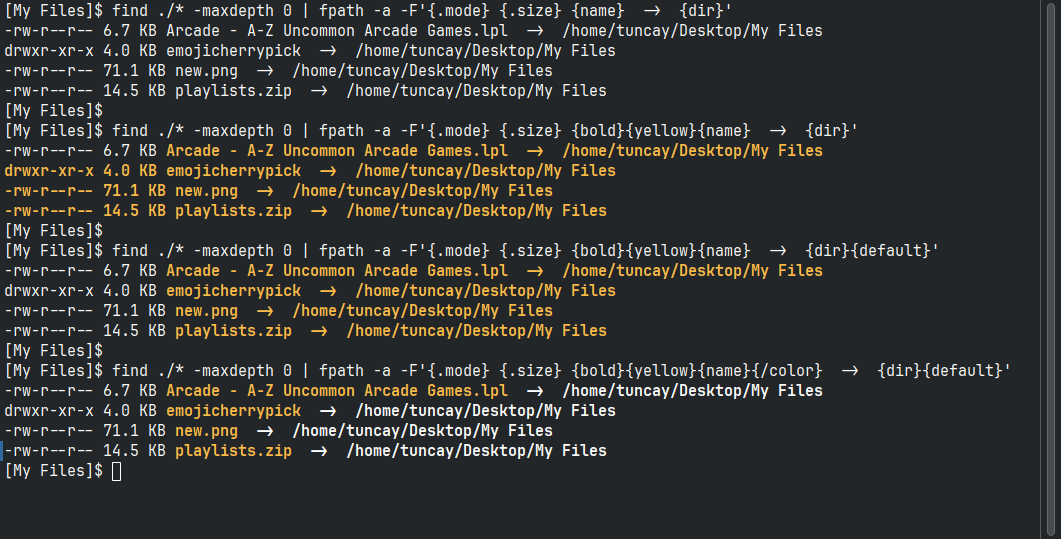
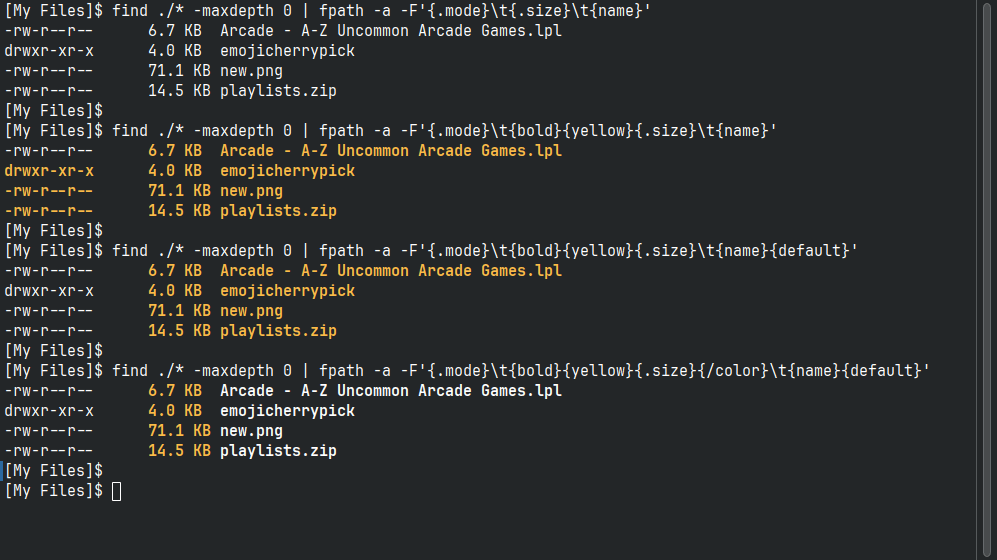
README fixed, simplefied and rephrased lot of examples

Changed region(s): [[0.0, 0.0, 0.995, 0.9796]]

diff --git a/README.md b/README.md
@@ -56,33 +56,28 @@ alias or functions and use the program directly.
 The usage is pretty simple:
 
 ```bash
-stdout | fpath [options] -- [path...]
+path... | fpath [options] -- [path...]
 ```
 
-By default it will read from (newline character delimited) stdout of another
-program and optionally from given arguments as file paths. And they are output
-back after some processing. By default quotes (single and double) enclosing a
-path are removed and the leading tilde is resolved into users home directory;
-just as god intended. Let's see how this works in a simple series of commands.
+By default stdin from a piped process is parsed as list of paths split by
+newline. Optionally paths can be given as arguments too. All input paths are
+output to stdout. Single and double quotes surrounding a path is automatically
+detected and removed. Leading tilde character is translated into the users home
+directory. With options all of these default processing can be changed.
 
-Use `-h` option to display available options.
+The stdin can be ignored with option `-z`. And `--` tells the script to stop
+processing options and accept anything that comes after the double dash as path
+input files rather than options.
 
-```bash
-fpath -h
-```
-
-Let's assume the output of `ls` from the home directory. (Usually it is advised
-against using `ls` output in pipes, but for demonstration purposes just let's
-ignore any good advice here.)
+Let's see how this works with a series of simple examples:
 
 ### Basics
 
-As you can see by default output is just their names without a path at all. And
-those with spaces in the name are enclosed by quotes:
+Output from `ls` will include quotes for paths with spaces:
 
 ```bash
 $ cd ~
-$ ls -1 ~/Videos
+$ ls -1 Videos
 Gaming
 'My Friends'
 'My Game Recording'
@@ -90,12 +85,12 @@ Gaming
 YouTube
 ```
 
-The default output by piping into `fpath` in this case would just remove those
-quotes for consistency:
+Pipe that into `fpath`, which removes those quotes automatically for
+consistency:
 
 ```bash
 $ cd ~
-$ ls -1 ~/Videos | fpath
+$ ls -1 Videos | fpath
 Gaming
 My Friends
 My Game Recording
@@ -103,11 +98,11 @@ My Tutorials
 YouTube
 ```
 
-However single quotes can be enforced for all paths with option `-q`:
+Enforce single quotes on all paths with `-q`:
 
 ```bash
 $ cd ~
-$ ls -1 ~/Videos | fpath -q
+$ ls -1 Videos | fpath -q
 'Gaming'
 'My Friends'
 'My Game Recording'
@@ -115,29 +110,27 @@ $ ls -1 ~/Videos | fpath -q
 'YouTube'
 ```
 
-Option `-a` can add the current working directory to all relative paths to turn
-them into an absolute path. This would result in something like
-`/home/tuncay/Gaming` like paths. We can use option `-t` to convert the home
-part back into a tilde, for visual clarity:
+Because we are not in the same directory as "~/Videos", using the name of a
+file or directory would not work. To build a correct path we can tell `fpath`
+to add a base path in front of each relative path:
 
 ```bash
 $ cd ~
-$ ls -1 ~/Videos | fpath -a -t
-~/Gaming
-~/My Friends
-~/My Game Recording
-~/My Tutorials
-~/YouTube
+$ ls -1 Videos | fpath -b Videos
+Videos/Gaming
+Videos/My Friends
+Videos/My Game Recording
+Videos/My Tutorials
+Videos/YouTube
 ```
 
-As said before, `ls` isn't actually the best tool for combining its output into
-other programs. The better tool for this job would be to use `find` or even any
-other tool dedicated for this kind of job. Here it produces entire paths with
-all its directory parts and without quotes, a much better place to be in.
+Add `-a` to turn every relative path into an absolute path, by adding the
+current working directory. This operation is safe, as we build a correct
+partial path in the previous example. Now we can expand it fully:
 
 ```bash
 $ cd ~
-$ find ~/Videos/* -maxdepth 0
+$ ls -1 Videos | fpath -a -b Videos
 /home/tuncay/Videos/Gaming
 /home/tuncay/Videos/My Friends
 /home/tuncay/Videos/My Game Recording
@@ -145,78 +138,53 @@ $ find ~/Videos/* -maxdepth 0
 /home/tuncay/Videos/YouTube
 ```
 
+`find` is a better tool for scripting and combining output with other tools.
+
+```bash
+$ cd ~
+$ find Videos/* -maxdepth 0
+Videos/Gaming
+Videos/My Friends
+Videos/My Game Recording
+Videos/My Tutorials
+Videos/YouTube
+```
+
 Let's play with the path separator slash "/" and replace it by option `-/` to
 any other text:
 
 ```bash
 $ cd ~
-$ find ~/Videos/* -maxdepth 0 | fpath -/' -> '
- -> home -> tuncay -> Videos -> Gaming
- -> home -> tuncay -> Videos -> My Friends
- -> home -> tuncay -> Videos -> My Game Recording
- -> home -> tuncay -> Videos -> My Tutorials
- -> home -> tuncay -> Videos -> YouTube
+$ find Videos/* -maxdepth 0 | fpath -/' -> '
+Videos -> Gaming
+Videos -> My Friends
+Videos -> My Game Recording
+Videos -> My Tutorials
+Videos -> YouTube
 ```
 
-Single style names can be used with `-s` option, to style the path separator
-itself. For simplicity no curved brackets `{}` are required and we cannot
-combine multiple styles here. Off course I cannot show you the colors that
-easily without screenshots. This is how it would look like with red separators:
+Color of the path separator (meaning "/" by default) can changed with the style
+option `-s` . For simplicity only one style can be specified here, but curved
+brackets `{` and `}` are not required.
 
 ```bash
 $ cd ~
-$ find ~/Videos/* -maxdepth 0 | fpath -s red
+$ find Videos/* -maxdepth 0 | fpath -s red
 # see img/red.png
 ```
 
 ![screenshot: red style](img/red.png)
 
 Have in mind that styles from `-s` will partially overwrite and collide with
-styles specified in `-F` option, if not being carefully. For more advanced
-usage and an explanation, see below [Advanced](#advanced) topic.
-
-One more thing: Let's start by a different folder.
-
-```bash
-$ cd ~/Desktop/My Files/
-$ find ./* -maxdepth 0
-./Arcade - A-Z Uncommon Arcade Games.lpl
-./emojicherrypick
-./new.png
-./playlists.zip
-```
-
-Without options `fpath` would remove the `./`, as having no directory part in
-the path is synonymous with the current directory:
-
-```bash
-$ cd ~/Desktop/My Files/
-$ find ./* -maxdepth 0 | fpath
-Arcade - A-Z Uncommon Arcade Games.lpl
-emojicherrypick
-new.png
-playlists.zip
-```
-
-We can use the `-a` option again to turn the path into an absolute path, with
-its parts from current working directory.
-
-```bash
-$ cd ~/Desktop/My Files/
-$ find ./* -maxdepth 0 | fpath -a
-/home/tuncay/Desktop/My Files/Arcade - A-Z Uncommon Arcade Games.lpl
-/home/tuncay/Desktop/My Files/emojicherrypick
-/home/tuncay/Desktop/My Files/new.png
-/home/tuncay/Desktop/My Files/playlists.zip
-```
+styles specified in `-F` option, if not being carefully.
 
 ### Advanced
 
 Using the `-F` option you get to control what and how it is being output.
 Control sequences and variables allow fine grained formatting. These commands
-need to be enclosed by curved brackets `{}`, such as `{red}` or `{dirname}` to
-be recognized. Mix and match them together with arbitrary text to form the
-exact format you like.
+need to be enclosed by curved brackets `{` and `}`, such as `{red}` or
+`{dirname}` to be recognized. Mix and match them together with arbitrary text
+to form the exact format you like.
 
 To see a list of supported style and format commands, use the explain option
 `-H` or `--explain`:
@@ -226,13 +194,22 @@ fpath --explain fmt
 fpath --explain style
 ```
 
-Let's turn the tables and get to the meat. Show the name and directory of path
-on their own lines, with an additional newline at the end for clarity (note
-in the example output below the tabs are replaced by 8 spaces, but in the
-terminal actual tabs are produced and output):
+For the following examples, I have create a new directory with random files:
 
 ```bash
-$ cd ~/Desktop/My Files/
+$ cd ~/Desktop/My" "Files/
+$ find ./* -maxdepth 0
+./Arcade - A-Z Uncommon Arcade Games.lpl
+./emojicherrypick
+./new.png
+./playlists.zip
+```
+
+Let's turn the tables and get to the meat. Show base name of file, with it's
+directory part below, indicated by an arrow:
+
+```bash
+$ cd ~/Desktop/My" "Files/
 $ find ./* -maxdepth 0 | fpath -a -F'{name}\n\t-> {dir}\n'
 Arcade - A-Z Uncommon Arcade Games.lpl
         -> /home/tuncay/Desktop/My Files
@@ -248,85 +225,89 @@ playlists.zip
 
 ```
 
-Let's add some more information to the output, such as the file permissions
-and file size (but without the arrow from previous example):
+Let's add some more information to the output, such as the file permissions and
+file size (but with double colon and without arrow this time):
 
 ```bash
-$ cd ~/Desktop/My Files/
-$ find ./* -maxdepth 0 | fpath -a -F'{name}\n\t{dir}\n\t{.mode}\n\t{.size}\n'
-Arcade - A-Z Uncommon Arcade Games.lpl
+$ cd ~/Desktop/My" "Files/
+$ find ./* -maxdepth 0 | fpath -a -F'{name}:\n\t{dir}\n\t{.mode}\n\t{.size}\n'
+Arcade - A-Z Uncommon Arcade Games.lpl:
         /home/tuncay/Desktop/My Files
         -rw-r--r--
         6.7 KB
 
-emojicherrypick
+emojicherrypick:
         /home/tuncay/Desktop/My Files
         drwxr-xr-x
         4.0 KB
 
-new.png
+new.png:
         /home/tuncay/Desktop/My Files
         -rw-r--r--
         71.1 KB
 
-playlists.zip
+playlists.zip:
         /home/tuncay/Desktop/My Files
         -rw-r--r--
         14.5 KB
+
 ```
 
-Or let's take the same commands and scramble the output structure entirely:
+Wanna have a format that is more familiar? Here we have added the mime type
+with {mime} as well, which works by looking into file content with standard
+Linux program `file`. It's called only once for all paths together, therefore
+this will not slowdown the script with many paths, even thousands.
 
 ```bash
-$ cd ~/Desktop/My Files/
-$ find ./* -maxdepth 0 | fpath -a -F'{.mode} {.size} {name}  ->  {dir}'
--rw-r--r-- 6.7 KB Arcade - A-Z Uncommon Arcade Games.lpl  ->  /home/tuncay/Desktop/My Files
-drwxr-xr-x 4.0 KB emojicherrypick  ->  /home/tuncay/Desktop/My Files
--rw-r--r-- 71.1 KB new.png  ->  /home/tuncay/Desktop/My Files
--rw-r--r-- 14.5 KB playlists.zip  ->  /home/tuncay/Desktop/My Files
+$ cd ~/Desktop/My" "Files/
+$ find ./* -maxdepth 0 | fpath -a -F'{.mode}\t{.size}\t{mime}     \t{name}'
+-rw-r--r--      6.7 KB  us-ascii        Arcade - A-Z Uncommon Arcade Games.lpl
+drwxr-xr-x      4.0 KB  binary          emojicherrypick
+-rw-r--r--      71.1 KB binary          new.png
+-rw-r--r--      14.5 KB binary          playlists.zip
 ```
 
-We can also utilize the style commands to change color or effects. However we
-need to reset the settings at the end of the line, if we don't want it to spill
-over to the next lines. To illustrate the effects and difference, I'll show you
-a single screenshot with the output of multiple commands in one go:
+In `-F` option we can also use the various color and effects commands, such as
+`{yellow}` in example. Unlike in option `-s`, we have to put them in curly
+braces. But it is important to understand that we have to reset the color or
+entire style for the line, otherwise it will spill over to next line. Look at
+the screenshot for the output, to understand the differences:
 
 ```bash
-$ cd ~/Desktop/My Files/
-$ find ./* -maxdepth 0 | fpath -a -F'{.mode} {.size} {name}  ->  {dir}'
-$ find ./* -maxdepth 0 | fpath -a -F'{.mode} {.size} {bold}{yellow}{name}  ->  {dir}'
-$ find ./* -maxdepth 0 | fpath -a -F'{.mode} {.size} {bold}{yellow}{name}  ->  {dir}{default}'
-$ find ./* -maxdepth 0 | fpath -a -F'{.mode} {.size} {bold}{yellow}{name}{/color}  ->  {dir}{default}'
+$ cd ~/Desktop/My" "Files/
+$ find ./* -maxdepth 0 | fpath -a -F'{.mode}\t{.size}\t{name}'
+$ find ./* -maxdepth 0 | fpath -a -F'{.mode}\t{bold}{yellow}{.size}\t{name}'
+$ find ./* -maxdepth 0 | fpath -a -F'{.mode}\t{bold}{yellow}{.size}\t{name}{default}'
+$ find ./* -maxdepth 0 | fpath -a -F'{.mode}\t{bold}{yellow}{.size}{/color}\t{name}{default}'
 # see img/bold_yellow.png
 ```
 
 ![screenshot: bold yellow style](img/bold_yellow.png)
 
-To display the time and date of last modification, use `{.mtime}`, or last change
-`{.ctime}` or for last access `{.atime}` in a human readable format:
+Time and date can be displayed with `{.atime}` for last access, `{.mtime}` for
+last modification and `{.ctime}` for last change in a human readable format.
 
 ```bash
-$ cd ~/Desktop/My Files/
-$ find ./* -maxdepth 0 | fpath -a -F'{.mode}\t{.size}\t{.mtime} \t{name}'
--rw-r--r--      6.7 KB  Sunday, October 23, 2022 02:07:30       Arcade - A-Z Uncommon Arcade Games.lpl
-drwxr-xr-x      4.0 KB  Wednesday, April 13, 2022 06:18:43      emojicherrypick
--rw-r--r--      71.1 KB Wednesday, April 10, 2024 07:13:06      new.png
--rw-r--r--      14.5 KB Saturday, May 04, 2024 04:40:03         playlists.zip
+$ cd ~/Desktop/My" "Files/
+$ find ./* -maxdepth 0 | fpath -a -F'{.mtime}  \t{name}'
+Sunday, October 23, 2022 02:07:30       Arcade - A-Z Uncommon Arcade Games.lpl
+Wednesday, April 13, 2022 06:18:43      emojicherrypick
+Wednesday, April 10, 2024 07:13:06      new.png
+Saturday, May 04, 2024 04:40:03         playlists.zip
 ```
 
-The time commands have also a special variant that allows custom format on
-their own, via
-[strftime](https://docs.python.org/3/library/datetime.html#strftime-and-strptime-format-codes)
-format codes. These additional arguments are separated by double colon ":" like
-in `{.mtime:arguments}`:
+Time commands have a special variant allowing for custom formatting. Their
+options are separated by double color, like this `{.mtime:options}`. The
+options are actually format codes interpreted by
+[strftime](https://docs.python.org/3/library/datetime.html#strftime-and-strptime-format-codes):
 
 ```bash
-$ cd ~/Desktop/My Files/
-$ find ./* -maxdepth 0 | fpath -a -F'{.mode}\t{.size}\t{.mtime:%Y-%m}\t{name}'
--rw-r--r--      6.7 KB  2022-10 Arcade - A-Z Uncommon Arcade Games.lpl
-drwxr-xr-x      4.0 KB  2022-04 emojicherrypick
--rw-r--r--      71.1 KB 2024-04 new.png
--rw-r--r--      14.5 KB 2024-05 playlists.zip
+$ cd ~/Desktop/My" "Files/
+$ find ./* -maxdepth 0 | fpath -a -F'{.mtime:%Y/%m/%d}\t{name}'
+2022/10/23      Arcade - A-Z Uncommon Arcade Games.lpl
+2022/04/13      emojicherrypick
+2024/04/10      new.png
+2024/05/04      playlists.zip
 ```
 
 I hope this helps in understanding what this tool can do and if it is for you.
